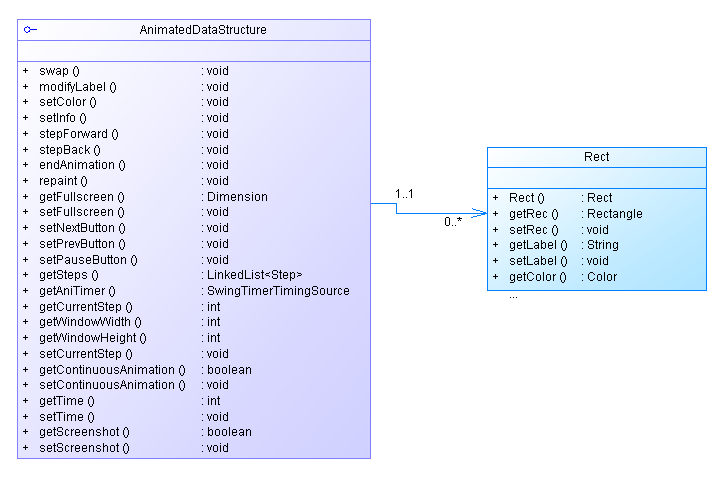
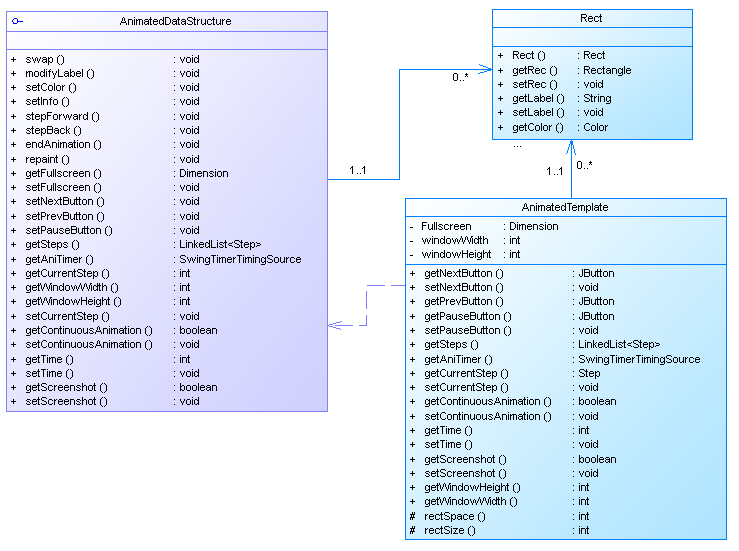
User manual and class diagrams updated

diff --git a/report/user_manual.tex b/report/user_manual.tex
@@ -28,6 +28,7 @@ This is the user manual to handle our API.
 \end{abstract}
 \educationalconsent
 
+\chapter{API}
 Our API consists of 3 data structure you can animate:
 \begin{itemize}
 \item Arrays
@@ -64,3 +65,28 @@ The Heap supports the following additional call:
 \begin{itemize}
 \item add : adds the integer value i to the heap; this function maintains the binary tree ordered structure
 \end{itemize}
+
+To animate your algorithm you have to inject the appropriate API calls into your code where you manipulate your data structure, or when you want
+do some highlighting on elements. Here is a sample animation code for an array sorting algorithm:
+
+\input{figures/animationAlgorithm}
+
+\chapter{User interface}
+
+The user interface is very simple and only consists in a few explicitely named button.
+
+\input{images/animationWindow}
+
+When running the animation, you may use the middle Play/Pause button to run or stop the animation. There's two distinct animation
+behaviours depending on wether the animation is running or not:
+\begin{itemize}
+\item If the animation is running, you won't be able to use the Prev/Next Step buttons
+\item If the animation is paused, you may run it step by step using the Prev/Next Step buttons
+\end{itemize}
+
+Please take note that the Prev Step button will not animate the rollback to the previous step, it will simply restore the state of the animation to its previous state.
+The Next Step Button on another hand will animate the change of state to the next step.
+
+There is a second window opened with every animation running. It contains the entire list of animation steps, identified by their step description. When the animation is paused,
+you may jump backward or forward in the animation by selecting the step you want to jump to and clicking the Go button. 
+Please note that you may only use this feature while the animation is paused.

diff --git a/report/figures/animationAlgorithm.tex b/report/figures/animationAlgorithm.tex
@@ -1,0 +1,49 @@
+\begin{figure}
+\begin{center}
+\begin{verbatim}
+
+
+import java.awt.Color;
+
+import AnimatedDataStructure.AnimatedDataStructure;
+import AnimatedLinkedList.AnimatedLinkedList;
+import AnimatedArray.AnimatedArray;
+
+import java.util.Random;
+
+public class Main {
+    
+    private static AnimatedArray anim;//We're creating an animation on an array,
+	//hence using the AnimatedArray AnimatedDataStructure
+    public static int time = 200;
+    
+	public static void main(String[] args) {
+		int[] arr = {1,2,3,4,5,6,7,8,9,0,1,2,3,4};
+		anim = new AnimatedArray(arr);
+		int i, j,t=0;
+		for(i = 0; i < arr.length; i++){
+			for(j = 1; j < (arr.length-i); j++){
+				anim.setColor(j, Color.RED, "");
+				anim.setColor(j-1, Color.RED, "");
+					if(arr[j-1] > arr[j]){
+					t = arr[j-1];
+					arr[j-1]=arr[j];
+					arr[j]=t;
+					anim.swap(j, j-1, "Swapping");
+				}
+				anim.setColor(j, Color.BLUE, "");
+				anim.setColor(j-1, Color.BLUE, "");
+			}
+			anim.setColor(j-1, Color.DARK_GRAY, "Gray out an element that's in it's place already.");
+		}
+        anim.endAnimation();
+	}
+	
+}
+
+\end{verbatim}
+\end{center}
+\caption{An array sorting algorithm example: bubblesort}
+\label{fig:animationAlgorithm}
+\end{figure}
+

diff --git a/report/figures/main.tex b/report/figures/main.tex
@@ -13,7 +13,8 @@ import java.util.Random;
 
 public class Main {
     
-    private static AnimatedDataStructure anim;
+    private static AnimatedDataStructure anim; //Declare the AnimatedDataStructure you want
+	//to animate here
     public static int time = 200;
     
 	public static void main(String[] args) {
